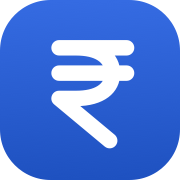
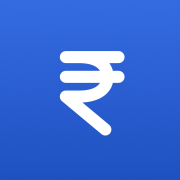
Installable home-screen app (PWA)
- manifest.webmanifest: standalone, start on Overview, theme colours
- Icons: square iOS touch icon (no transparent corners), 192/512 and a
  maskable 512 for Android
- iOS meta: home-screen title, full-screen, translucent status bar;
  viewport-fit=cover with safe-area padding for body, sticky top menu,
  Ask AI button, toast, AI panel and Add expense dialog

diff --git a/frontend/src/app/layout/add-expense-dialog/add-expense-dialog.scss b/frontend/src/app/layout/add-expense-dialog/add-expense-dialog.scss
@@ -2,7 +2,8 @@
 // The host fades too – Angular waits for that before removing the dialog.
 :host { display: block; transition: opacity var(--exit-dur) ease-in; }
 :host(.is-leaving) { opacity: 0; }
-.backdrop { position: fixed; inset: 0; background: rgba(15, 23, 42, 0.28); -webkit-backdrop-filter: blur(10px); backdrop-filter: blur(10px); z-index: 40; display: flex; align-items: flex-start; justify-content: center; padding: 5vh 12px; overflow-y: auto; }
+.backdrop { position: fixed; inset: 0; background: rgba(15, 23, 42, 0.28); -webkit-backdrop-filter: blur(10px); backdrop-filter: blur(10px); z-index: 40; display: flex; align-items: flex-start; justify-content: center; overflow-y: auto;
+  padding: max(5vh, calc(env(safe-area-inset-top) + 12px)) 12px calc(12px + env(safe-area-inset-bottom)); }
 .dialog { width: 100%; max-width: 580px; padding: 26px; border-radius: var(--radius-xl); display: flex; flex-direction: column; gap: 16px;
   background: var(--surface-strong); box-shadow: 0 40px 90px -24px rgba(30, 41, 99, 0.5), var(--spec); }
 .top { align-items: flex-start; }

diff --git a/frontend/src/index.html b/frontend/src/index.html
@@ -4,11 +4,18 @@
   <meta charset="utf-8">
   <title>MonEXP – Monthly money, sorted</title>
   <base href="/">
-  <meta name="viewport" content="width=device-width, initial-scale=1">
+  <!-- viewport-fit=cover: when installed on an iPhone, the app may draw under the notch; styles add safe-area padding -->
+  <meta name="viewport" content="width=device-width, initial-scale=1, viewport-fit=cover">
   <meta name="theme-color" content="#1E51C0">
   <link rel="icon" type="image/svg+xml" href="favicon.svg">
   <link rel="alternate icon" type="image/x-icon" href="favicon.ico">
   <link rel="apple-touch-icon" href="apple-touch-icon.png">
+  <!-- Installable app ("Add to Home Screen") -->
+  <link rel="manifest" href="manifest.webmanifest">
+  <meta name="mobile-web-app-capable" content="yes">
+  <meta name="apple-mobile-web-app-capable" content="yes">
+  <meta name="apple-mobile-web-app-title" content="MonEXP">
+  <meta name="apple-mobile-web-app-status-bar-style" content="black-translucent">
 </head>
 <body>
   <app-root></app-root>

diff --git a/frontend/src/styles/_base.scss b/frontend/src/styles/_base.scss
@@ -3,7 +3,9 @@
 * { box-sizing: border-box; }
 html { background: #EEF2FA; }
 html[data-theme='dark'] { background: #0A0F24; }
-body { margin: 0; min-height: 100vh; background: var(--mesh); background-attachment: fixed; color: var(--ink); font-family: var(--font); -webkit-font-smoothing: antialiased; }
+// Installed as a phone app, the page runs under the notch / status bar: keep content out of those areas.
+// (env(safe-area-inset-*) is 0 in a normal browser tab.)
+body { padding: env(safe-area-inset-top) env(safe-area-inset-right) 0 env(safe-area-inset-left); margin: 0; min-height: 100vh; background: var(--mesh); background-attachment: fixed; color: var(--ink); font-family: var(--font); -webkit-font-smoothing: antialiased; }
 a { color: var(--accent-ink); }
 a:hover { color: var(--accent-ink); }
 h1, h2, h3 { margin: 0; letter-spacing: -.02em; }

diff --git a/frontend/src/app/layout/ask-ai/ask-ai.scss b/frontend/src/app/layout/ask-ai/ask-ai.scss
@@ -40,5 +40,8 @@
 @supports not ((-webkit-backdrop-filter: blur(1px)) or (backdrop-filter: blur(1px))) { .panel { background: var(--surface-solid); } }
 @media (prefers-reduced-transparency: reduce) { .panel { background: var(--surface-solid); -webkit-backdrop-filter: none; backdrop-filter: none; } }
 
-@media (max-width: bp.$tablet) { .fab { right: 16px; bottom: 16px; } .panel { inset: 0; width: 100%; max-width: 100%; border-radius: 0; } }
+@media (max-width: bp.$tablet) {
+  .fab { right: 16px; bottom: calc(16px + env(safe-area-inset-bottom)); }
+  .panel { inset: 0; width: 100%; max-width: 100%; border-radius: 0; padding: env(safe-area-inset-top) 0 env(safe-area-inset-bottom); }
+}
 @media (max-width: bp.$phone) { .fab__label { display: none; } .fab { width: 56px; padding: 0; } }

diff --git a/frontend/src/app/layout/undo-toast/undo-toast.scss b/frontend/src/app/layout/undo-toast/undo-toast.scss
@@ -15,4 +15,4 @@
 @media (prefers-reduced-motion: reduce) {
   .toast, .toast.is-leaving { transform: translateX(-50%) !important; transition: opacity .15s ease !important; }
 }
-@media (max-width: bp.$tablet) { .toast { width: calc(100% - 32px); bottom: 84px; } }
+@media (max-width: bp.$tablet) { .toast { width: calc(100% - 32px); bottom: calc(84px + env(safe-area-inset-bottom)); } }

diff --git a/frontend/src/app/layout/shell/shell.scss b/frontend/src/app/layout/shell/shell.scss
@@ -9,5 +9,5 @@
 @media (max-width: bp.$tablet) {
   .shell { flex-direction: column; }
   .main { padding: 16px 14px 120px; }
-  app-sidebar { position: sticky; top: 10px; z-index: 15; }
+  app-sidebar { position: sticky; top: calc(10px + env(safe-area-inset-top)); z-index: 15; }
 }
